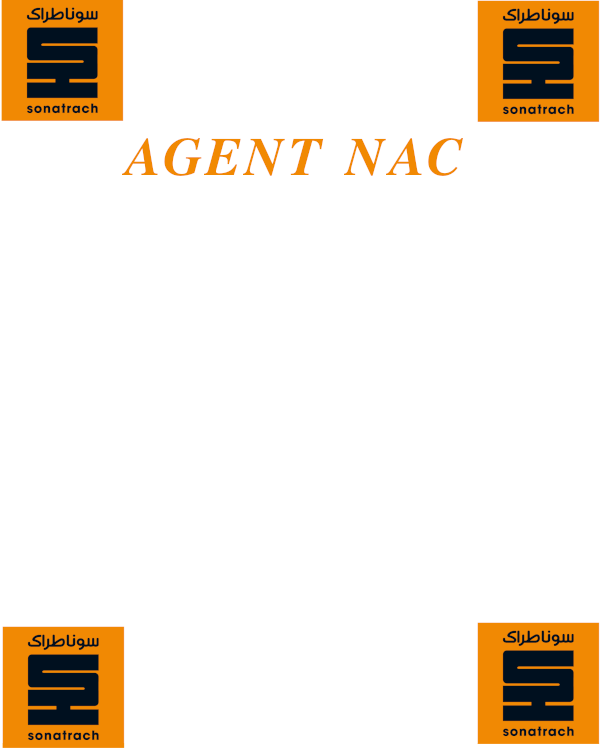
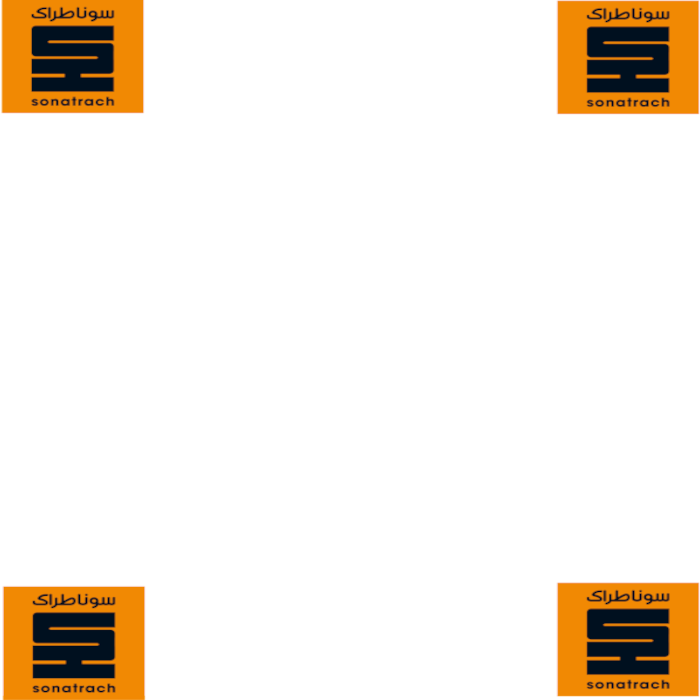
new lock

diff --git a/agent.py b/agent.py
@@ -1,191 +1,194 @@
-import subprocess 
+import subprocess
 import tkinter as tk
-from tkinter import messagebox
-from scapy.all import *
-from scapy.layers.eap import EAP, EAPOL , EAP_PEAP
-  
-def send_eap_request(interface, dst_mac="01:80:C2:00:00:03", src_mac="f8:e4:e3:7b:1c:31"):
-    eap_packet = EAP_PEAP()
-    eap_packet.code = 1  # Request
-    eap_packet.identifier = 1
-
-    eapol = EAPOL(packet=eap_packet)
-    ether = Ether(src=src_mac, dst=dst_mac) / eapol
-
-    # Send EAPOL frame using Scapy
-    sendp(ether, iface=interface)
-
-
-
-# Handle the received EAP-Request and send an EAP-Response
-def handle_eap_request(packet, interface, client_mac):
-    if packet.haslayer(EAP):
-        eap_layer = packet[EAP]
-        if eap_layer.code == 1:  # EAP-Request
-            print(f"Received EAP-Request: ID={eap_layer.id}, Type={eap_layer.type}")
-            
-            # Construct EAP-Response
-            eap_response = Ether(dst=packet[Ether].src, src=client_mac) / \
-                           EAPOL(version=1, type=0) / \
-                           EAP(code=2, id=eap_layer.id, type=eap_layer.type, identity="client_identity")
-
-            sendp(eap_response, iface=interface, verbose=1)
-            print(f"Sent EAP-Response: ID={eap_layer.id}, Type={eap_layer.type}")
-
-# Sniff for EAP packets and handle them
-def sniff_eap_packets(interface, client_mac):
-    def eap_packet_callback(packet):
-        if packet.haslayer(EAP):
-            handle_eap_request(packet, interface, client_mac)
-    
-    sniff(iface=interface, prn=eap_packet_callback, filter="ether proto 0x888e", stop_filter=lambda x: x.haslayer(EAP) and x[EAP].code == 1)
-
-# """ |||||||||||| |||||| |||||| ||||||  |||||| """
-# radius_host = '192.168.30.5'
-# radius_secret = 'Zola123:'
-# radius_nas_ip = '192.168.30.10'
-# radius_nas_id = 'mynas'
-# username = 'myuser'
-# password = 'adel'
-# """ |||||||||||| |||||| |||||| |||||| |||||| ||||||"""
-
-
-
+from tkinter import ttk , messagebox
+import time
+import threading
+import platform
+import re 
+import math
 
 # Function to check if firewall is active on Windows
 def is_firewall_active():
-    """Checks if the Windows Firewall is active.
-
-    Returns:
-        bool: True if the firewall is active, False otherwise.
-    """
-    # Function to get the firewall status
-    def get_firewall_status():
-        # Run the command using PowerShell (requires shell=True)
-        output = subprocess.run(["powershell", "-Command", "Get-NetFirewallProfile"], capture_output=True, text=True, shell=True).stdout
-
-        # Regular expression pattern to extract firewall status
-        pattern = re.compile(r'Name\s+:\s+(\w+)\s+Enabled\s+:\s+(\w+)', re.MULTILINE)
-
-        # Find all matches in the output
-        matches = pattern.findall(output)
-
-        # Dictionary to store firewall status
-        firewall_status = {}
-
-        # Iterate through matches and populate the dictionary
-        for match in matches:
-            profile = match[0]
-            enabled = True if match[1].lower() == 'true' else False
-            firewall_status[profile] = enabled
-
-        return firewall_status
-
-    # Get the firewall status
-    firewall_status = get_firewall_status()
-
-    # Check if any profile has the firewall disabled
-    for profile, enabled in firewall_status.items():
-        if not enabled:
-            return False
-    
-    return True
+    if platform.system() == "Windows":
+        def get_firewall_status():
+            output = subprocess.run(["powershell", "-Command", "Get-NetFirewallProfile"], capture_output=True, text=True, shell=True).stdout
+            pattern = re.compile(r'Name\s+:\s+(\w+)\s+Enabled\s+:\s+(\w+)', re.MULTILINE)
+            matches = pattern.findall(output)
+            firewall_status = {match[0]: match[1].lower() == 'true' for match in matches}
+            return firewall_status
+        firewall_status = get_firewall_status()
+        return all(firewall_status.values())
+    else:
+        # Assume Linux does not have firewall check implemented
+        return True
 
 # Function to check if OS is up to date (dummy implementation)
 def is_os_up_to_date():
-    """Checks if the Windows operating system is up to date.
-
-    Returns:
-        bool: True if the OS is up to date, False otherwise.
-    """
-    try:
-        # Run the PowerShell command to get installed hotfixes
-        hotfix_output = subprocess.run(["powershell", "-Command", "Get-HotFix"], capture_output=True, text=True, shell=True).stdout
-
-        # Check if there are any installed hotfixes
-        if "No updates are installed" in hotfix_output:
-            return True  # No updates installed means the system is up to date
-        else:
-            # Check if any security updates are installed
-            security_updates_installed = any("Security Update" in line for line in hotfix_output.splitlines())
-
-            # Check if any updates are installed
-            updates_installed = any("Update" in line for line in hotfix_output.splitlines())
-
-            # If both security updates and general updates are installed, consider the system up to date
-            if security_updates_installed and updates_installed:
+    if platform.system() == "Windows":
+        try:
+            hotfix_output = subprocess.run(["powershell", "-Command", "Get-HotFix"], capture_output=True, text=True, shell=True).stdout
+            if "No updates are installed" in hotfix_output:
                 return True
-            else:
-                return False
-
-    except Exception as e:
-        print(f"Error occurred while checking OS update status: {e}")
-        return False
-
+            security_updates_installed = any("Security Update" in line for line in hotfix_output.splitlines())
+            updates_installed = any("Update" in line for line in hotfix_output.splitlines())
+            return security_updates_installed and updates_installed
+        except Exception as e:
+            print(f"Error occurred while checking OS update status: {e}")
+            return False
+    else:
+        # Assume Linux is always up to date for this dummy implementation
+        return True
 
 # Function to run a virus scan (dummy implementation)
 def run_virus_scan():
-    """Runs a virus scan using Windows Defender (Windows PowerShell).
-
-    Returns:
-        bool: True if the scan was initiated successfully, False otherwise.
-    """
-    try:
-        # Run the PowerShell command to start a quick scan
-        subprocess.run(["powershell", "-Command", "Start-MpScan -ScanType QuickScan"], check=True)
+    if platform.system() == "Windows":
+        try:
+            subprocess.run(["powershell", "-Command", "Start-MpScan -ScanType QuickScan"], check=True)
+            return True
+        except subprocess.CalledProcessError:
+            print("Failed to run virus scan.")
+            return False
+    else:
+        # Assume Linux does not need a virus scan for this dummy implementation
         return True
-    except subprocess.CalledProcessError:
-        print("Failed to run virus scan.")
-        return False
 
-
-# Function to send packet to the switch using scapy
-def login_8021x():
-    send_eap_request("Wi-Fi")
-    # r = RADIUS(radius_host, radius_secret, radius_nas_ip, radius_nas_id)
-    # print(r.is_credential_valid(username, password))
-# Create GUI
+# GUI functions
 def create_gui():
-    # Create main window
+    global root, status_var, continue_execution
     root = tk.Tk()
     root.title("802.1X Agent")
-    # root.size = (500,500)
+    root.geometry("700x700")
+    root.resizable(False, False)
+    bg_image = tk.PhotoImage(file="agent.png")
+    background_label = tk.Label(root, image=bg_image)
+    background_label.place(relwidth=1, relheight=1)
 
-    # Create buttons for each action
-    firewall_button = tk.Button(root, text="Check Firewall", command=check_firewall, bg="red", fg="black")
-    firewall_button.pack(pady=20)
+    title_label = tk.Label(root, text="AGENT NAC", font=("Helvetica", 24, "bold"), bg="white")
+    title_label.pack(pady=20)
 
-    update_button = tk.Button(root, text="Check Updates", command=check_updates, bg="lightgreen", fg="black")
-    update_button.pack(pady=20)
+    status_var = tk.StringVar()
+    status_label = tk.Label(root, textvariable=status_var, font=("Helvetica", 12), bg="white", fg="black")
+    status_label.pack(pady=20)
 
-    virus_scan_button = tk.Button(root, text="Run Virus Scan", command=run_scan, bg="orange", fg="black")
-    virus_scan_button.pack(pady=20)
-
-    login_button = tk.Button(root, text="Login 802.1X", command=login_8021x, bg="lightblue", fg="black")
-    login_button.pack(pady=20)
+  # Add check_domain function to the list of task_functions
+    task_labels = ["Checking Firewall", "Checking Updates", "Running Virus Scan", "Checking Domain"]
+    task_functions = [check_firewall, check_updates, run_scan, check_domain]
 
 
-    # Run GUI loop
+    continue_execution = True
+
+    for i, (label_text, task) in enumerate(zip(task_labels, task_functions)):
+        if continue_execution:
+            label = tk.Label(root, text=label_text, bg="white", fg="black")
+            label.pack(pady=10)
+            canvas = tk.Canvas(root, width=50, height=50, bg="white", highlightthickness=0)
+            canvas.pack(pady=10)
+            task_info = (task, canvas, label)
+            threading.Thread(target=run_task, args=(task_info, i)).start()
+        else:
+            break
+
     root.mainloop()
 
-# Functions to be called when buttons are clicked
-def check_firewall():
-    if is_firewall_active():
-        messagebox.showinfo("Firewall Status", "Firewall is active.")
+def run_task(task_info, index):
+    global continue_execution
+    task, canvas, label = task_info
+    if continue_execution:
+        animate_circle(canvas)
+        task()
+        canvas.delete("all")
+        canvas.create_oval(10, 10, 40, 40, fill="green", outline="green")
+        label.config(text=label.cget("text") + " - Completed")
+        update_status(index)
+        root.update()
     else:
-        messagebox.showinfo("Firewall Status", "Firewall is not active.")
+        messagebox.showwarning("Task Stopped", "Task has stopped. Please correct any issues to continue.")
+        return
+
+def animate_circle(canvas):
+    for _ in range(20):  # Adjust the range for longer or shorter animation
+        for angle in range(0, 360, 30):  # Adjust the step for smoother or rougher animation
+            canvas.delete("all")
+            x = 25 + 15 * math.cos(math.radians(angle))
+            y = 25 + 15 * math.sin(math.radians(angle))
+            canvas.create_oval(x-10, y-10, x+10, y+10, fill="yellow", outline="yellow")
+            root.update()
+            time.sleep(0.1)
+
+def update_status(index):
+    status_messages = [
+        "Checking Firewall...",
+        "Checking Updates...",
+         "Running Virus Scan...",
+        "All tasks completed!"
+    ]
+    status_var.set(status_messages[index + 1])
+    root.update()
+
+def check_firewall():
+    global continue_execution
+    time.sleep(2)  # Simulate task delay
+    if platform.system() == "Windows":
+        if is_firewall_active():
+            status_var.set("Firewall is active.")
+        else:
+            status_var.set("Firewall is not active.")
+            continue_execution = False
+    else:
+        status_var.set("Firewall check not applicable for Linux.")
+        continue_execution = False
+    root.update()
+
+# Function to check if the user's Windows machine is in the domain "sonatrach.com"
+def check_domain():
+    global continue_execution
+    if platform.system() == "Windows":
+        try:
+            domain_output = subprocess.run(["powershell", "-Command", "Get-WmiObject -Class Win32_ComputerSystem"], capture_output=True, text=True, shell=True).stdout
+            if "sonatrach.com" in domain_output:
+                status_var.set("Machine is in the 'sonatrach.com' domain.")
+            else:
+                status_var.set("Machine is not in the 'sonatrach.com' domain. Please log in to the 'sonatrach.com' domain to access the network.")
+                continue_execution = False
+        except Exception as e:
+            print(f"Error occurred while checking domain status: {e}")
+            status_var.set("Error occurred while checking domain status.")
+            continue_execution = False
+    else:
+        status_var.set("Domain check not applicable for non-Windows systems.")
+        continue_execution = False
+
 
 def check_updates():
-    if is_os_up_to_date():
-        messagebox.showinfo("Update Status", "OS is up to date.")
+    global continue_execution
+    time.sleep(2)  # Simulate task delay
+    if platform.system() == "Windows":
+        if is_os_up_to_date():
+            status_var.set("OS is up to date.")
+        else:
+            status_var.set("OS update required.")
+            continue_execution = False
     else:
-        messagebox.showinfo("Update Status", "OS update required.")
+        status_var.set("Update check not applicable for Linux.")
+        continue_execution = False
+    root.update()
+
+
+
 
 def run_scan():
-    run_virus_scan()
-    messagebox.showinfo("Virus Scan", "Virus scan completed.")
+    global continue_execution
+    time.sleep(2)  # Simulate task delay
+    if platform.system() == "Windows":
+        if continue_execution:
+            run_virus_scan()
+            status_var.set("Virus scan completed.")
+        else:
+            return
+    else:
+        continue_execution = False
+        status_var.set("Virus scan not applicable for Linux.")
+    root.update()
 
-
-# Start GUI
 if __name__ == "__main__":
     create_gui()
